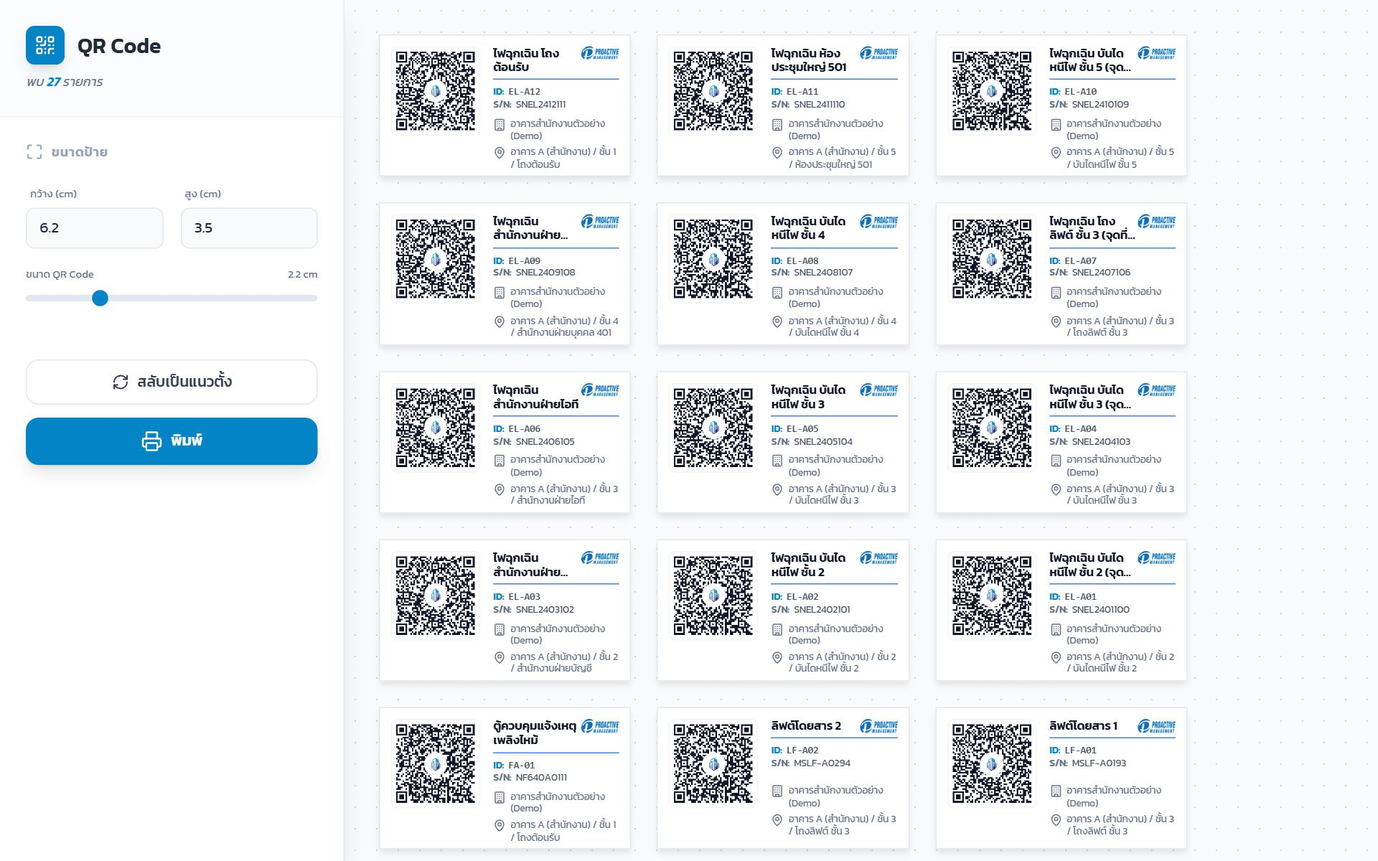
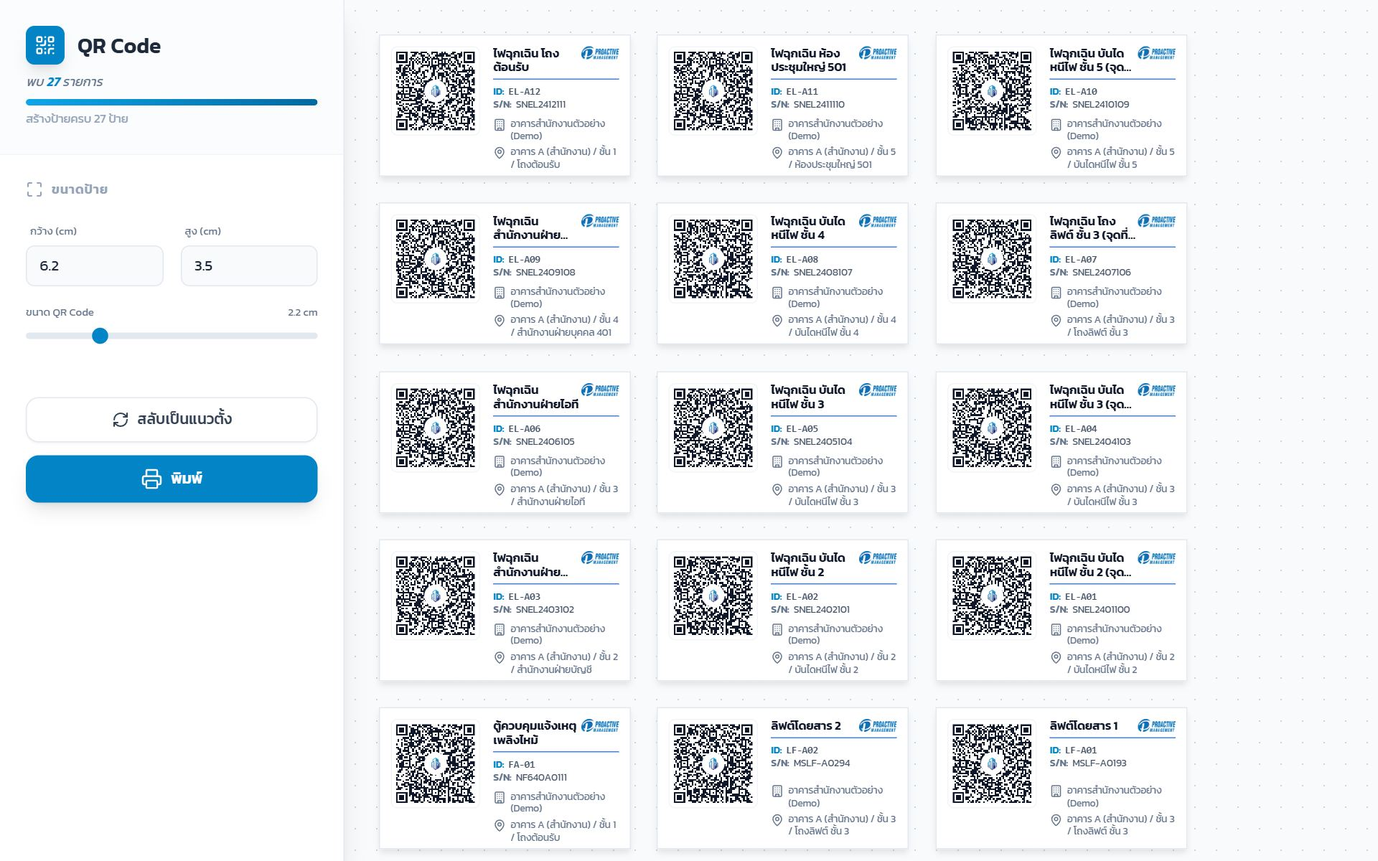
loading/skeleton และแก้ที่ต้นเหตุแล้ว ตอนนี้ป้าย 500 ใบพร้อมพิมพ์ในประมาณ 3 วินาที จากเดิมประมาณ 20 วินาที และหน้าไม่ค้างระหว่างโหลด

diff --git a/machine_info_print.php b/machine_info_print.php
@@ -28,6 +28,21 @@
             background-size: 20px 20px;
         }
 
+        /* โหลดข้อมูล: skeleton ป้าย + แถบความคืบหน้า */
+        .label-skeleton { background: #fff; border: 1px solid #e2e8f0; border-radius: 4px; padding: 10px; display: flex; gap: 12px; width: var(--card-width); height: var(--card-height); box-sizing: border-box; }
+        .is-vertical .label-skeleton { flex-direction: column; align-items: center; }
+        .sk { background: linear-gradient(90deg, #f1f5f9 25%, #e2e8f0 37%, #f1f5f9 63%); background-size: 400% 100%; animation: sk-shine 1.3s ease infinite; border-radius: 4px; }
+        @keyframes sk-shine { 0% { background-position: 100% 50%; } 100% { background-position: 0 50%; } }
+        .progress-track { height: 6px; background: #e2e8f0; border-radius: 999px; overflow: hidden; }
+        .progress-bar { height: 100%; width: 0; background: linear-gradient(90deg, #0ea5e9, #0369a1); border-radius: 999px; transition: width .2s; }
+        .progress-bar.indeterminate { width: 35%; animation: pb-move 1.1s ease-in-out infinite; }
+        @keyframes pb-move { 0% { transform: translateX(-100%); } 100% { transform: translateX(300%); } }
+        button:disabled { opacity: .55; cursor: not-allowed; }
+        /* ป้ายที่อยู่นอกจอ เบราว์เซอร์ข้ามการวาด (หลักพันป้ายเลื่อนได้ลื่น) — ตอนพิมพ์กลับมาวาดครบ */
+        @media screen {
+            #labels-container .label-card { content-visibility: auto; contain-intrinsic-size: var(--card-width) var(--card-height); }
+        }
+
         /* --------------------------
            Label Card Core Styles
            -------------------------- */
@@ -206,7 +221,27 @@
                 </div>
                 QR Code
             </h1>
-            <p id="status-text" class="text-xs text-slate-500 mt-2 italic">พร้อมพิมพ์ข้อมูล...</p>
+            <p id="status-text" class="text-xs text-slate-500 mt-2 italic">กำลังดึงข้อมูลเครื่องจักร...</p>
+            <div id="progress-wrap" class="mt-2">
+                <div class="progress-track"><div id="progress-bar" class="progress-bar indeterminate"></div></div>
+                <p id="progress-text" class="text-[11px] text-slate-400 mt-1"></p>
+            </div>
+        </div>
+
+        <!-- เครื่องเยอะ => แบ่งพิมพ์เป็นชุด (พิมพ์ทีละหลายพันป้ายเบราว์เซอร์จะช้าหรือค้าง) -->
+        <div id="batch-box" class="hidden px-6 pt-5 space-y-2">
+            <h2 class="text-xs font-semibold text-slate-400 uppercase tracking-wider flex items-center gap-2">
+                <i data-lucide="layers" class="w-4 h-4"></i> แบ่งพิมพ์เป็นชุด
+            </h2>
+            <div class="grid grid-cols-[1fr_auto] gap-2">
+                <select id="batch-select" class="w-full px-3 py-2 bg-slate-50 border border-slate-200 rounded-lg text-sm focus:ring-2 focus:ring-sky-500 outline-none"></select>
+                <select id="batch-size" title="จำนวนป้ายต่อชุด" class="px-2 py-2 bg-slate-50 border border-slate-200 rounded-lg text-sm focus:ring-2 focus:ring-sky-500 outline-none">
+                    <option value="200">200/ชุด</option>
+                    <option value="500" selected>500/ชุด</option>
+                    <option value="1000">1000/ชุด</option>
+                </select>
+            </div>
+            <p class="text-[11px] text-slate-400 leading-relaxed">พิมพ์ทีละชุด แล้วเลือกชุดถัดไป (ป้ายขนาดปกติ ~21 ป้ายต่อหน้า A4)</p>
         </div>
 
         <div class="flex-1 overflow-y-auto p-6 space-y-8">
@@ -244,10 +279,10 @@
                     <span id="toggleText">สลับเป็นแนวตั้ง</span>
                 </button>
                 
-                <button onclick="window.print()" 
+                <button id="print-btn" onclick="window.print()" disabled
                         class="w-full flex items-center justify-center gap-2 px-4 py-3 bg-sky-600 hover:bg-sky-700 text-white rounded-xl text-sm font-bold transition-all shadow-lg active:scale-95">
                     <i data-lucide="printer" class="w-5 h-5"></i>
-                    พิมพ์
+                    <span id="print-btn-text">กำลังเตรียมป้าย...</span>
                 </button>
             </div>
         </div>
@@ -307,19 +342,87 @@
                 }
             } catch(e) {}
 
+            showSkeleton();
+            setProgress(null, 'กำลังดึงข้อมูลจากเซิร์ฟเวอร์...');
             try {
                 const url = `handle_machine_info.php?action=get_all&export=true&ag_id=${ag_id}&search=${encodeURIComponent(search)}&filterModel=${encodeURIComponent(filterModel)}`;
                 const response = await fetch(url);
                 const result = await response.json();
 
                 if (result && result.rows) {
-                    renderLabels(result.rows);
-                    document.getElementById('status-text').innerHTML = `พบ <span class="text-sky-600 font-bold">${result.rows.length}</span> รายการ`;
+                    ALL_ROWS = result.rows;
+                    document.getElementById('status-text').innerHTML = `พบ <span class="text-sky-600 font-bold">${fmt(ALL_ROWS.length)}</span> รายการ`;
+                    buildBatchOptions();
+                    renderCurrentBatch();
+                } else {
+                    throw new Error('no rows');
                 }
             } catch (error) {
+                document.getElementById('labels-container').innerHTML = '';
                 document.getElementById('status-text').innerText = `Error: ไม่สามารถดึงข้อมูลได้`;
+                setProgress(0, 'โหลดไม่สำเร็จ — ลองรีเฟรชหน้านี้อีกครั้ง');
             }
         }
+
+        // ---------- โหลด/แบ่งชุด/ความคืบหน้า ----------
+        let ALL_ROWS = [];
+        let renderToken = 0;            // เปลี่ยนชุดระหว่างสร้างป้าย => ยกเลิกรอบเก่า
+        const fmt = n => Number(n).toLocaleString('th-TH');
+        const esc = s => String(s == null ? '' : s).replace(/[&<>"']/g, c => ({ '&': '&amp;', '<': '&lt;', '>': '&gt;', '"': '&quot;', "'": '&#39;' }[c]));
+
+        function setProgress(ratio, text) {
+            const bar = document.getElementById('progress-bar');
+            document.getElementById('progress-wrap').classList.toggle('hidden', ratio === 1 && !text);
+            bar.classList.toggle('indeterminate', ratio === null);
+            bar.style.width = ratio === null ? '' : Math.round(ratio * 100) + '%';
+            document.getElementById('progress-text').textContent = text || '';
+        }
+
+        function setPrintReady(ready, text) {
+            const btn = document.getElementById('print-btn');
+            btn.disabled = !ready;
+            document.getElementById('print-btn-text').textContent = text;
+        }
+
+        function showSkeleton(count = 12) {
+            const card = `<div class="label-skeleton" aria-hidden="true">
+                <div class="sk" style="width:var(--qr-size);height:var(--qr-size);flex-shrink:0"></div>
+                <div style="flex:1;display:flex;flex-direction:column;gap:7px;width:100%">
+                    <div class="sk" style="height:10px;width:85%"></div>
+                    <div class="sk" style="height:8px;width:60%"></div>
+                    <div class="sk" style="height:8px;width:50%"></div>
+                    <div class="sk" style="height:8px;width:70%;margin-top:auto"></div>
+                </div></div>`;
+            document.getElementById('labels-container').innerHTML = card.repeat(count);
+            setPrintReady(false, 'กำลังเตรียมป้าย...');
+        }
+
+        function batchSize() { return parseInt(document.getElementById('batch-size').value, 10) || 500; }
+
+        function buildBatchOptions() {
+            const size = batchSize();
+            const total = ALL_ROWS.length;
+            const box = document.getElementById('batch-box');
+            box.classList.toggle('hidden', total <= 200);   // เครื่องไม่เยอะ ไม่ต้องแบ่งชุด
+            const sel = document.getElementById('batch-select');
+            const n = Math.max(1, Math.ceil(total / size));
+            sel.innerHTML = Array.from({ length: n }, (_, i) => {
+                const from = i * size + 1, to = Math.min(total, (i + 1) * size);
+                return `<option value="${i}">ชุดที่ ${i + 1} · ป้าย ${fmt(from)}–${fmt(to)}</option>`;
+            }).join('');
+        }
+
+        function renderCurrentBatch() {
+            const total = ALL_ROWS.length;
+            const batched = total > 200;
+            const size = batched ? batchSize() : total;
+            const idx = batched ? parseInt(document.getElementById('batch-select').value, 10) || 0 : 0;
+            const rows = ALL_ROWS.slice(idx * size, idx * size + size);
+            renderLabels(rows, idx * size);
+        }
+
+        document.getElementById('batch-select').addEventListener('change', () => { showSkeleton(); renderCurrentBatch(); });
+        document.getElementById('batch-size').addEventListener('change', () => { showSkeleton(); buildBatchOptions(); renderCurrentBatch(); });
 
         // สร้างลิงก์ไปยังหน้าประวัติเครื่องจักร (สำหรับให้ QR Code สแกนแล้วเปิดหน้านี้)
         function buildHistoryUrl(assetId) {
@@ -331,61 +434,119 @@
             return url.toString();
         }
 
-        function renderLabels(data) {
-            const container = document.getElementById('labels-container');
-            container.innerHTML = '';
+        // ไอคอนเล็กในป้าย (SVG ของ lucide ใส่ตรง ๆ — เร็วกว่าให้ lucide แปลง <i> ทีละหมื่นตัว)
+        const SVG_ATTR = 'xmlns="http://www.w3.org/2000/svg" viewBox="0 0 24 24" fill="none" stroke="currentColor" stroke-width="2" stroke-linecap="round" stroke-linejoin="round" class="w-3 h-3 flex-shrink-0"';
+        const ICONS = {
+            'building': `<svg ${SVG_ATTR}><rect width="16" height="20" x="4" y="2" rx="2"/><path d="M9 22v-4h6v4"/><path d="M8 6h.01M16 6h.01M12 6h.01M12 10h.01M12 14h.01M16 10h.01M16 14h.01M8 10h.01M8 14h.01"/></svg>`,
+            'map-pin': `<svg ${SVG_ATTR}><path d="M20 10c0 4.993-5.539 10.193-7.399 11.799a1 1 0 0 1-1.202 0C9.539 20.193 4 14.993 4 10a8 8 0 0 1 16 0"/><circle cx="12" cy="10" r="3"/></svg>`
+        };
+        const iconSvg = name => ICONS[name] || '';
 
-            data.forEach((item, index) => {
-                const card = document.createElement('div');
-                card.className = 'label-card';
-
-                const loc = [item.location, item.floor, item.room].filter(v => v && v !== '-').join(' / ');
-
-                card.innerHTML = `
-                    <div class="qr-container" id="qrcode-${index}"></div>
-                    <div class="info-container">
-                        <div>
-                            <div class="info-header">
-                                <div class="info-title uppercase">${item.machine_name || 'Machine'}</div>
-                                <img src="pro.png" class="logo-img" onerror="this.style.display='none'">
-                            </div>
-                            <div class="info-detail"><span class="info-label text-sky-600">ID:</span> <span class="font-bold font-mono">${item.asset_id || '-'}</span></div>
-                            <div class="info-detail"><span class="info-label">S/N:</span> ${item.serial || '-'}</div>
+        function labelHtml(item, i) {
+            const loc = [item.location, item.floor, item.room].filter(v => v && v !== '-').join(' / ');
+            return `
+                <div class="qr-container" id="qrcode-${i}"></div>
+                <div class="info-container">
+                    <div>
+                        <div class="info-header">
+                            <div class="info-title uppercase">${esc(item.machine_name || 'Machine')}</div>
+                            <img src="pro.png" class="logo-img" onerror="this.style.display='none'">
                         </div>
-                        <div class="info-detail mt-auto pt-1.5 text-slate-500 items-start">
-                            <i data-lucide="building" class="w-3 h-3 flex-shrink-0"></i>
-                            <span class="leading-tight break-words">
-                                ${item.ag_contract || 'N/A'}
-                            </span>
-                        </div>
-                        <div class="info-detail mt-1 text-slate-500 items-start">
-                            <i data-lucide="map-pin" class="w-3 h-3 flex-shrink-0"></i>
-                            <span class="leading-tight break-words">
-                                ${loc || 'N/A'}
-                            </span>
-                        </div>
+                        <div class="info-detail"><span class="info-label text-sky-600">ID:</span> <span class="font-bold font-mono">${esc(item.asset_id || '-')}</span></div>
+                        <div class="info-detail"><span class="info-label">S/N:</span> ${esc(item.serial || '-')}</div>
                     </div>
-                `;
+                    <div class="info-detail mt-auto pt-1.5 text-slate-500 items-start">
+                        ${iconSvg('building')}
+                        <span class="leading-tight break-words">${esc(item.ag_contract || 'N/A')}</span>
+                    </div>
+                    <div class="info-detail mt-1 text-slate-500 items-start">
+                        ${iconSvg('map-pin')}
+                        <span class="leading-tight break-words">${esc(loc || 'N/A')}</span>
+                    </div>
+                </div>`;
+        }
 
-                container.appendChild(card);
+        // สร้างป้ายทีละก้อน (คืนจังหวะให้เบราว์เซอร์ระหว่างก้อน) => หน้าไม่ค้าง และแสดงความคืบหน้าได้
+        // (เดิมสร้าง QR ทั้งหมดในลูปเดียว — เครื่องหลักพันหน้าจะค้างจนกว่าจะเสร็จ)
+        function renderLabels(data, offset = 0) {
+            const token = ++renderToken;
+            const container = document.getElementById('labels-container');
+            const total = data.length;
+            const BUDGET = 40;   // ms ต่อรอบ แล้วคืนจังหวะให้หน้าจอ
+            let i = 0, cleared = false;
 
-                if (item.asset_id) {
-                    new QRCode(document.getElementById(`qrcode-${index}`), {
-                        text: buildHistoryUrl(item.asset_id),
-                        width: 150,
-                        height: 150,
-                        colorDark : "#0f172a",
-                        colorLight : "#ffffff",
-                        correctLevel : QRCode.CorrectLevel.H
-                    });
+            if (!total) {
+                container.innerHTML = '<p class="text-slate-400 text-sm">ไม่พบเครื่องจักรตามเงื่อนไขที่เลือก</p>';
+                setProgress(1, '');
+                setPrintReady(false, 'ไม่มีป้ายให้พิมพ์');
+                return;
+            }
+            setPrintReady(false, 'กำลังเตรียมป้าย...');
+            setProgress(0, `กำลังสร้างป้าย 0 / ${fmt(total)}`);
 
-                    const badge = document.createElement('div');
-                    badge.className = 'qr-logo-badge';
-                    badge.innerHTML = `<img src="logo - easypro2.png" onerror="this.parentElement.style.display='none'">`;
-                    document.getElementById(`qrcode-${index}`).appendChild(badge);
+            const step = () => {
+                if (token !== renderToken) return;   // ผู้ใช้เปลี่ยนชุดแล้ว
+                if (!cleared) { container.innerHTML = ''; cleared = true; }
+                const frag = document.createDocumentFragment();
+                const t0 = performance.now();
+                // สร้าง QR ในการ์ดก่อนนำขึ้นหน้า (ยังไม่อยู่ในหน้า => ไม่ต้องจัดเลย์เอาต์ทุกใบ) แล้วใส่ทีเดียวต่อรอบ
+                while (i < total && performance.now() - t0 < BUDGET) {
+                    const item = data[i];
+                    const card = document.createElement('div');
+                    card.className = 'label-card';
+                    card.innerHTML = labelHtml(item, offset + i);
+                    frag.appendChild(card);
+                    if (item.asset_id) makeQr(card.querySelector('.qr-container'), item.asset_id);
+                    i++;
                 }
-            });
-            lucide.createIcons();
+                container.appendChild(frag);
+
+                if (i < total) {
+                    setProgress(i / total, `กำลังสร้างป้าย ${fmt(i)} / ${fmt(total)}`);
+                    nextTick(step);
+                } else {
+                    setProgress(1, `สร้างป้ายครบ ${fmt(total)} ป้าย`);
+                    setPrintReady(true, total === ALL_ROWS.length ? 'พิมพ์' : `พิมพ์ชุดนี้ (${fmt(total)} ป้าย)`);
+                }
+            };
+            nextTick(step);
+        }
+
+        // คืนจังหวะให้เบราว์เซอร์แล้วทำต่อทันที (setTimeout ถูกหน่วงได้ถึง ~1 วินาทีเมื่องานยาว)
+        const tickChannel = new MessageChannel();
+        const tickQueue = [];
+        tickChannel.port1.onmessage = () => { const fn = tickQueue.shift(); if (fn) fn(); };
+        function nextTick(fn) { tickQueue.push(fn); tickChannel.port2.postMessage(0); }
+
+        // QR เป็น SVG (path เดียวต่อป้าย) — ใช้ qrcodejs คำนวณตาราง QR อย่างเดียว ไม่ให้วาด canvas แล้วแปลงเป็นรูป PNG
+        // (การแปลงเป็นรูปคือส่วนที่ช้าที่สุด ~30ms/ป้าย) และ SVG พิมพ์ออกมาคมชัดทุกขนาด
+        let qrEngine = null;
+        function qrSvg(text) {
+            if (!qrEngine) {
+                qrEngine = new QRCode(document.createElement('div'), { width: 1, height: 1, correctLevel: QRCode.CorrectLevel.H });
+                qrEngine.makeImage = function () {};
+            }
+            qrEngine.makeCode(text);
+            const m = qrEngine._oQRCode, n = m.getModuleCount();
+            let d = '';
+            for (let r = 0; r < n; r++) {
+                for (let c = 0; c < n; c++) {
+                    if (!m.isDark(r, c)) continue;
+                    let w = 1;
+                    while (c + w < n && m.isDark(r, c + w)) w++;   // รวมช่องดำที่ติดกันในแถวเป็นแท่งเดียว
+                    d += `M${c} ${r}h${w}v1h-${w}z`;
+                    c += w - 1;
+                }
+            }
+            return `<svg xmlns="http://www.w3.org/2000/svg" viewBox="0 0 ${n} ${n}" shape-rendering="crispEdges" style="width:100%;height:100%;display:block"><rect width="${n}" height="${n}" fill="#ffffff"/><path d="${d}" fill="#0f172a"/></svg>`;
+        }
+
+        function makeQr(el, assetId) {
+            el.innerHTML = qrSvg(buildHistoryUrl(assetId));
+            const badge = document.createElement('div');
+            badge.className = 'qr-logo-badge';
+            badge.innerHTML = `<img src="logo - easypro2.png" onerror="this.parentElement.style.display='none'">`;
+            el.appendChild(badge);
         }
 
         window.addEventListener('DOMContentLoaded', () => {

diff --git a/tutorial.php b/tutorial.php
@@ -1053,10 +1053,13 @@ const MODULES = [
         ] },
         { title: 'พิมพ์ QR Code ติดเครื่อง', shot: 'machine_print', steps: [
             { t: 'ค้นหา/กรองตารางเครื่องจักรก่อน แล้วกด <span class="kbd">พิมพ์ QR Code</span> — หน้าพิมพ์จะเปิดในแท็บใหม่ เฉพาะเครื่องที่แสดงอยู่ในตาราง' },
-            { m: 1, t: '<b>ขนาดป้าย</b> — กว้าง × สูง (cm) ให้ตรงกับสติกเกอร์ที่ใช้' },
-            { m: 2, t: '<b>ขนาด QR Code</b> — เลื่อนเพื่อปรับ (ตัวเลขด้านขวาคือขนาดจริง)' },
-            { m: 3, t: '<span class="kbd">สลับเป็นแนวตั้ง</span> / แนวนอน' },
-            { m: 4, t: '<b>ตัวอย่างป้าย</b> — ชื่อ รหัส S/N หน่วยงาน และสถานที่ แล้วกด <span class="kbd">พิมพ์</span>' }
+            { m: 1, t: '<b>จำนวนเครื่อง และแถบความคืบหน้า</b> — ระหว่างดึงข้อมูลจะเห็นป้ายโครงร่าง (สีเทา) ตามด้วย "กำลังสร้างป้าย 120 / 500" จนขึ้น <b>สร้างป้ายครบ</b>' },
+            { m: 2, t: '<b>ขนาดป้าย</b> — กว้าง × สูง (cm) ให้ตรงกับสติกเกอร์ที่ใช้' },
+            { m: 3, t: '<b>ขนาด QR Code</b> — เลื่อนเพื่อปรับ (ตัวเลขด้านขวาคือขนาดจริง)' },
+            { m: 4, t: '<span class="kbd">สลับเป็นแนวตั้ง</span> / แนวนอน' },
+            { m: 5, t: '<span class="kbd">พิมพ์</span> — กดได้เมื่อสร้างป้ายครบแล้ว (ระหว่างสร้างจะขึ้น "กำลังเตรียมป้าย...")' },
+            { m: 6, t: '<b>ตัวอย่างป้าย</b> — ชื่อ รหัส S/N หน่วยงาน และสถานที่ ตรวจก่อนพิมพ์' },
+            { t: '<b>เครื่องเยอะ (เกิน 200 เครื่อง)</b> — จะมีช่อง <b>แบ่งพิมพ์เป็นชุด</b> เพิ่มขึ้นมา เลือกจำนวนต่อชุด (200 / 500 / 1000 ป้าย) แล้วเลือก <b>ชุดที่ 1 · ป้าย 1–500</b> กด <span class="kbd">พิมพ์ชุดนี้</span> เสร็จแล้วเลือกชุดถัดไปจนครบ' }
         ] },
         { title: 'ลงทะเบียนเครื่องจักร', shot: 'machine_add', steps: [
             { m: 2, t: '<b>รหัสครุภัณฑ์</b> — ระบบสร้าง QR Code จากรหัสนี้ให้ทันที (ดูตัวอย่างด้านซ้าย)' },
@@ -1064,7 +1067,8 @@ const MODULES = [
             { m: 4, t: '<b>วันหมดรับประกัน</b> และ <b>ตำแหน่งติดตั้ง</b> — กดช่อง <b>ระบุตำแหน่ง</b> เพื่อเลือก อาคาร → ชั้น → ห้อง' },
             { m: 5, t: '<b>สถานะการใช้งาน</b> — ปกติ / แจ้งซ่อม / ชำรุด / สำรอง' },
             { m: 1, t: '<b>รูปภาพเครื่องจักร</b> สูงสุด 3 รูป แล้วกด <span class="kbd">บันทึกข้อมูล</span>' }
-        ] }]
+        ] }],
+        tips: ['ป้าย 500 ใบใช้กระดาษ A4 ประมาณ 24 หน้า (ป้ายขนาดปกติ ~21 ป้ายต่อหน้า) — พิมพ์ทีละชุดช่วยให้เบราว์เซอร์ไม่ค้าง และถ้าเครื่องพิมพ์ติดขัดก็พิมพ์ซ้ำเฉพาะชุดนั้นได้', 'QR Code ในป้ายเป็นภาพเวกเตอร์ ปรับขนาดใหญ่แค่ไหนก็พิมพ์ออกมาคมชัด']
     },
     {
         id: 'stock', title: 'จัดการสต็อก', perm: 'stock_manage', href: 'stock.php',
